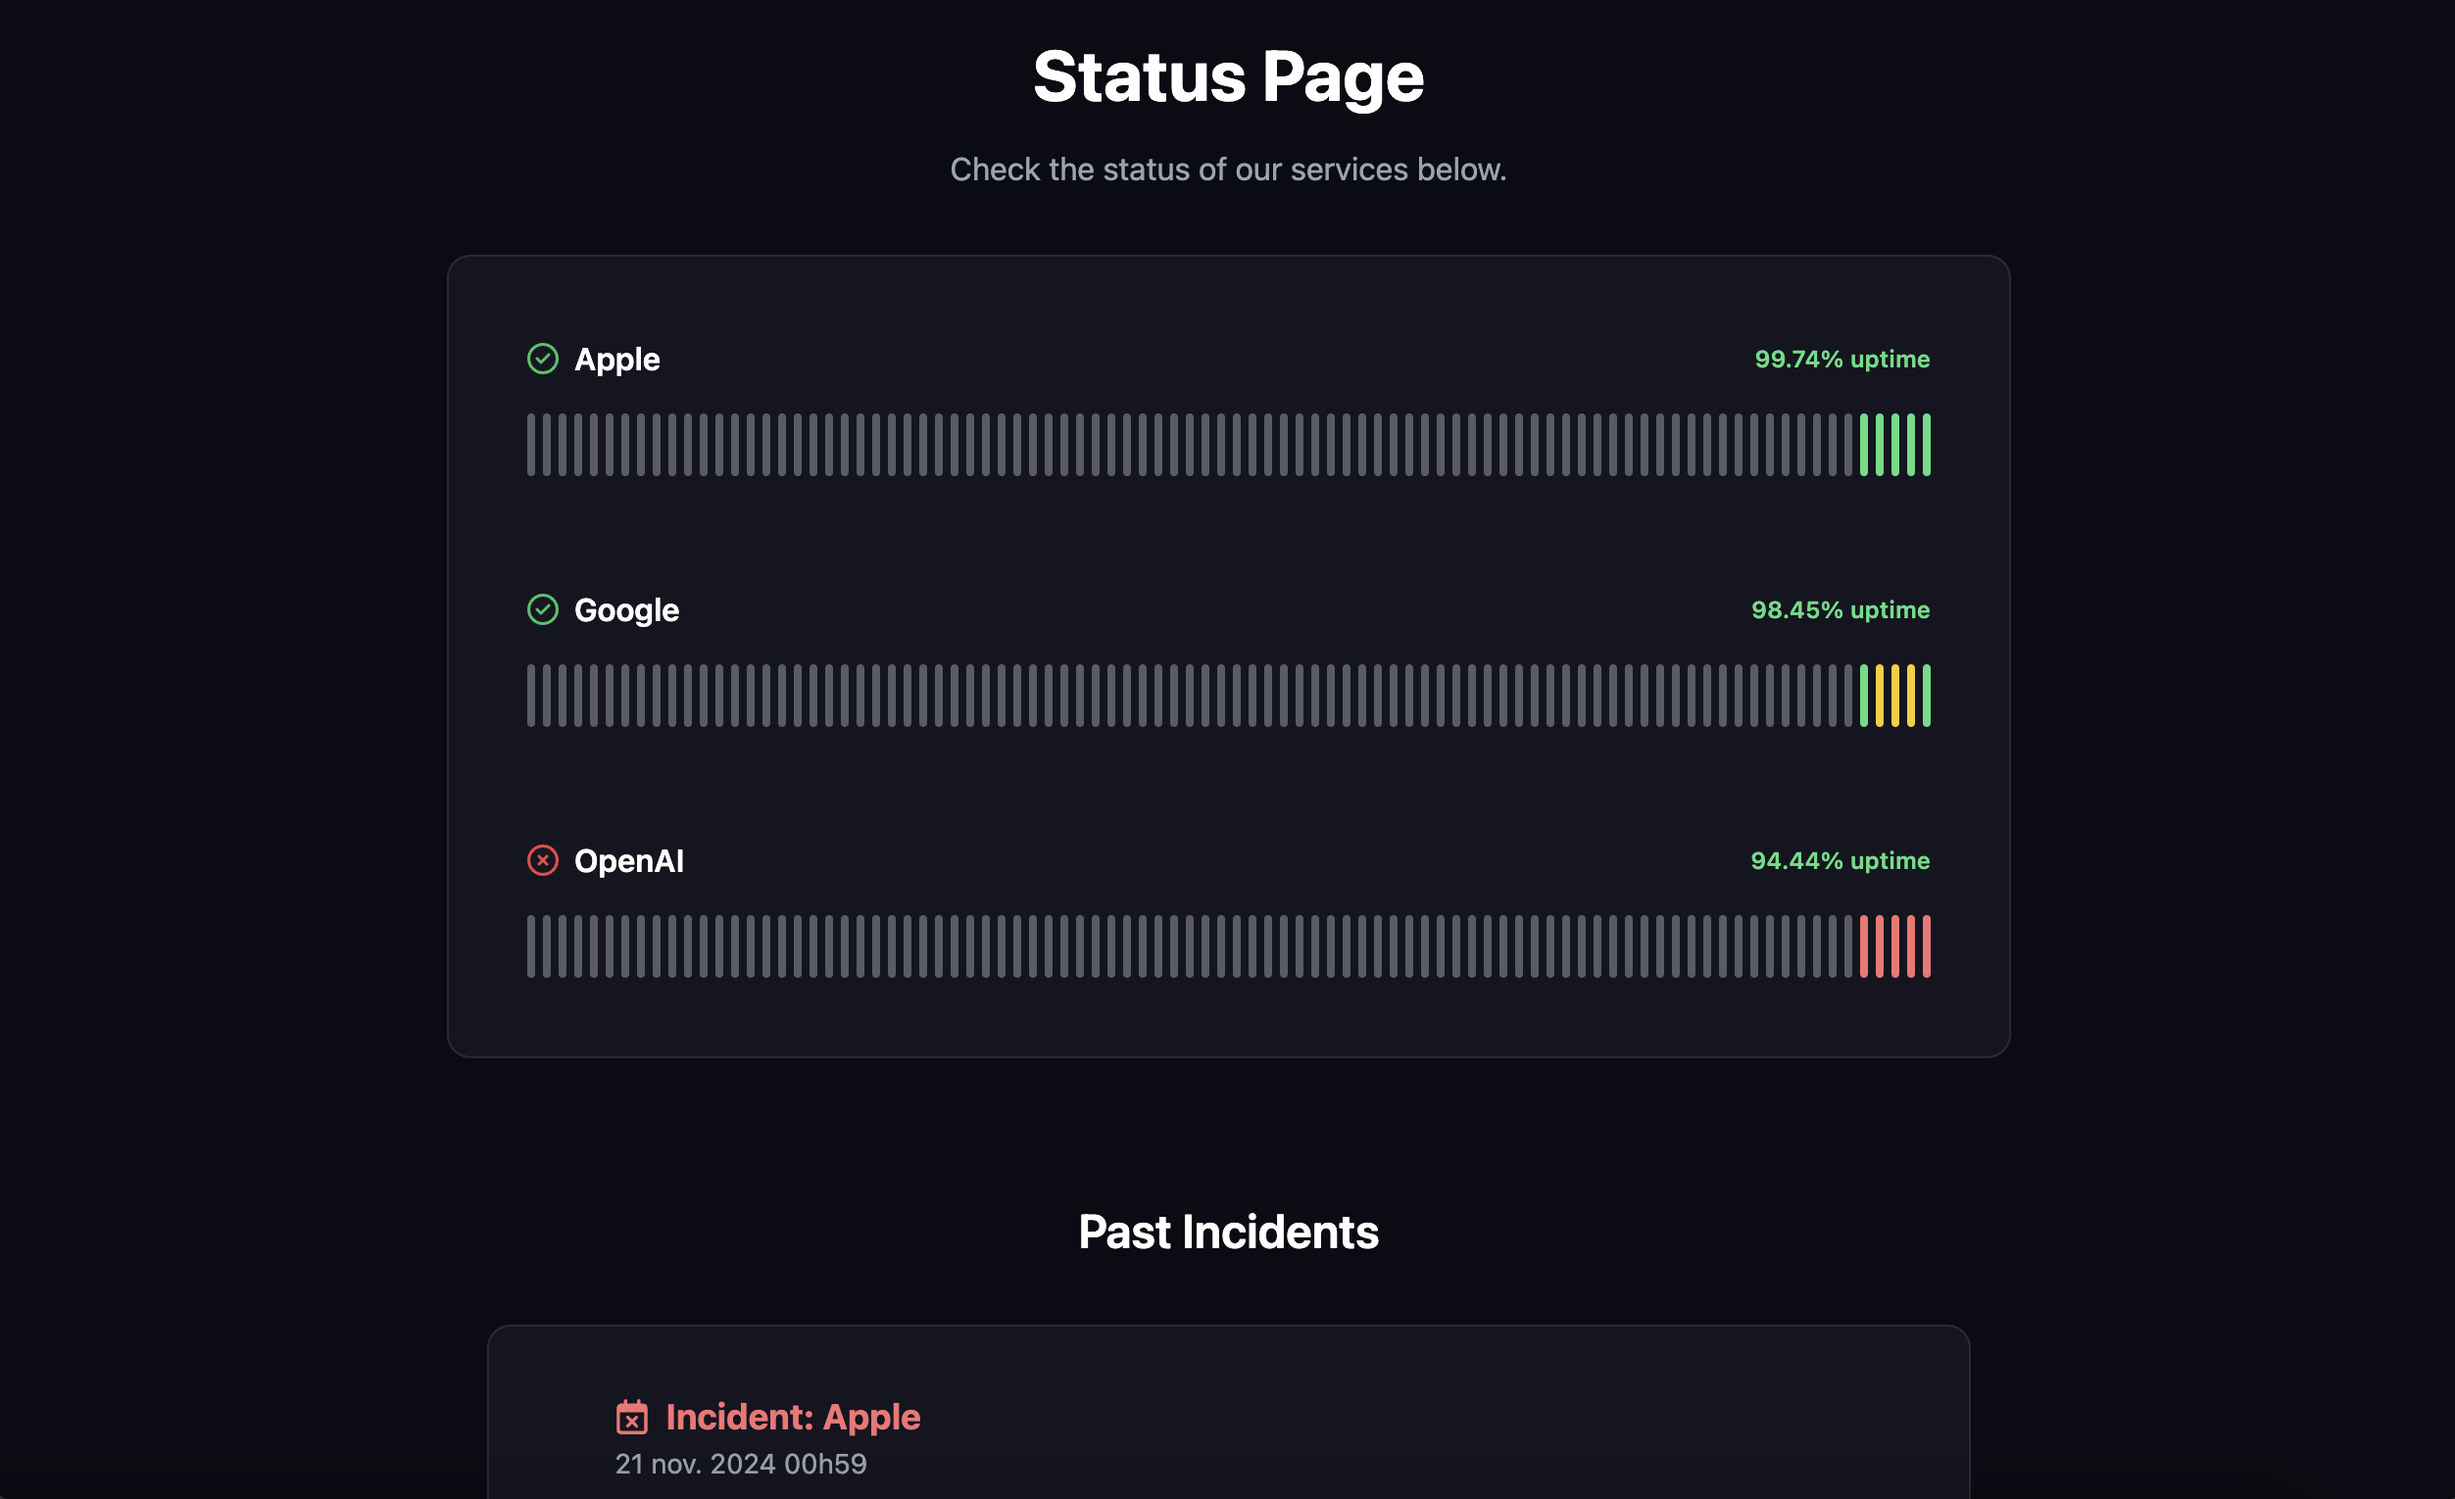
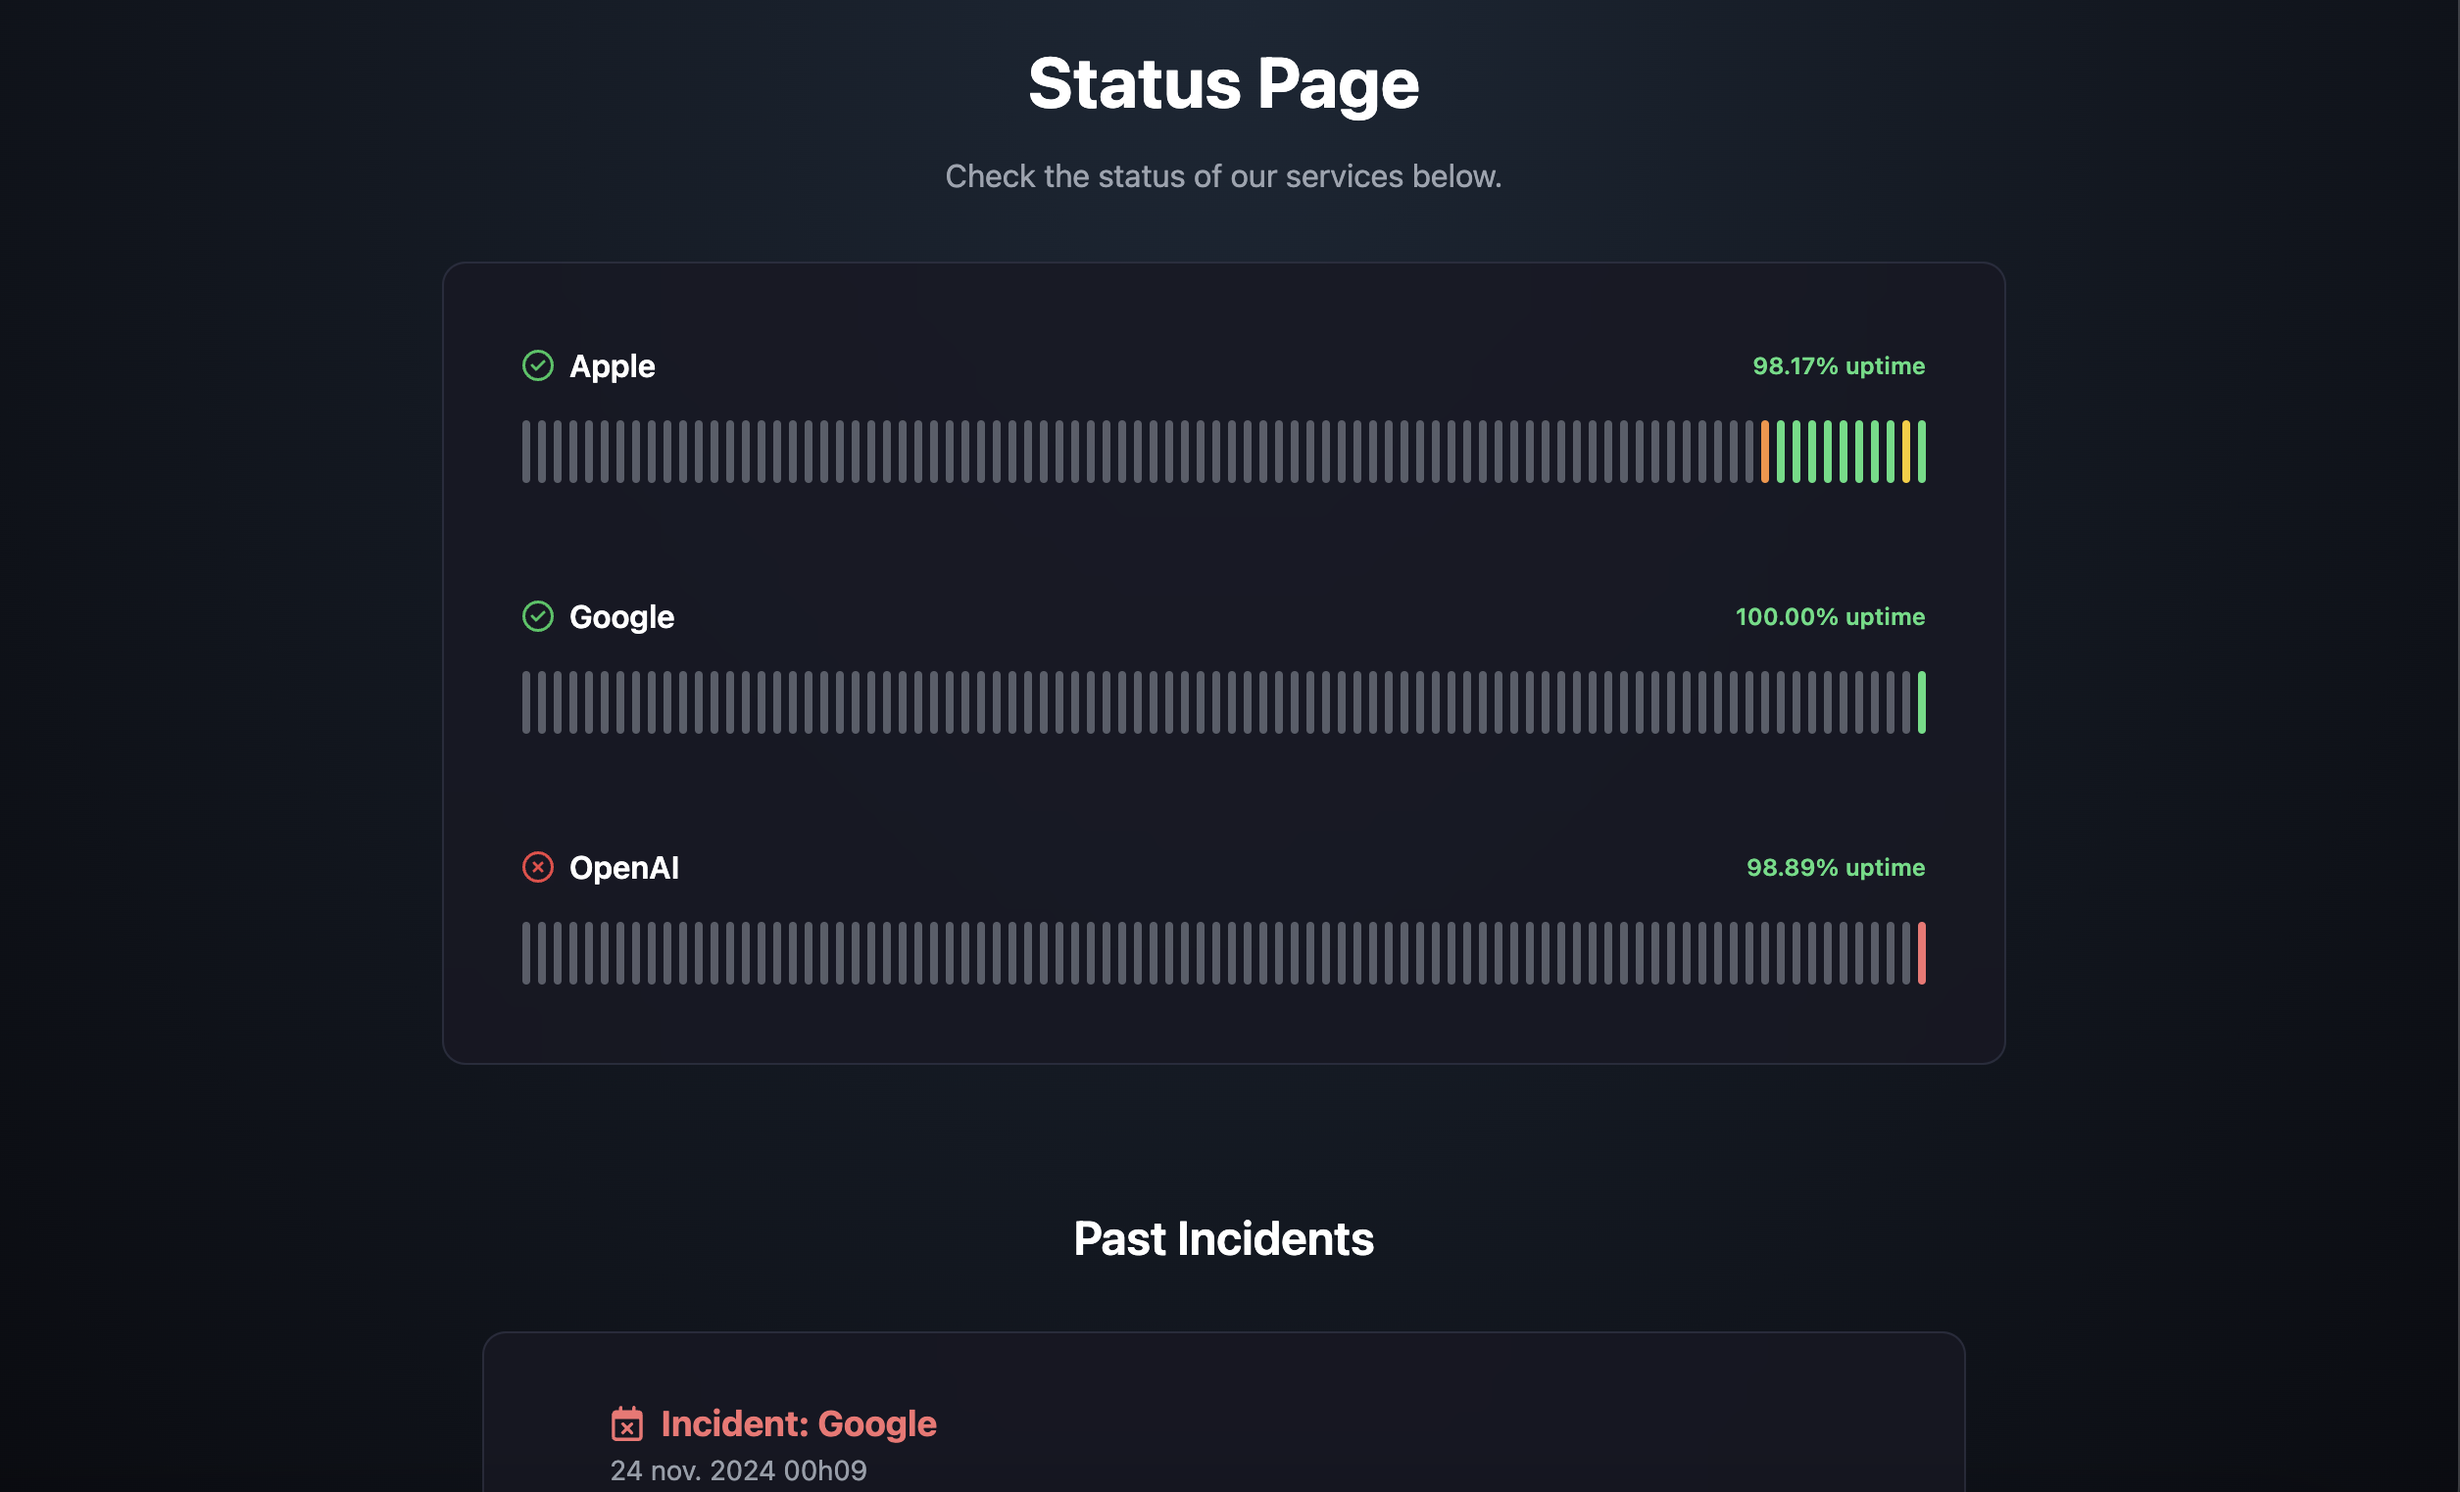
add more services infos

diff --git a/frontend/src/app/page.js b/frontend/src/app/page.js
@@ -3,20 +3,20 @@
 import { useEffect, useState } from "react";
 import axios from "axios";
 import {
+  FaRegCircleUp,
+  FaRegCircleDown,
   FaRegCircleCheck,
-  FaFaceFrown,
-  FaFaceLaughBeam,
-  FaFaceDizzy,
-  FaFaceSadCry,
-  FaHourglassHalf,
-  FaCircleUp,
-  FaCircleDown,
   FaRegCircleXmark,
   FaRegCircleQuestion,
-  FaRegCalendarXmark
+  FaRegCalendarXmark,
+  FaRegFaceFrown,
+  FaRegFaceLaughBeam,
+  FaRegFaceDizzy,
+  FaRegFaceSadTear,
+  FaHourglassHalf,
+  FaLink,
+  FaWifi
 } from "react-icons/fa6";
-
-import SnowEffect from "./components/SnowEffect";
 
 export default function Home() {
   const [statuses, setStatuses] = useState([]);
@@ -59,7 +59,6 @@ export default function Home() {
   useEffect(() => {
     const checkWinter = () => {
       const month = new Date().getMonth();
-      const minutes = new Date().getMinutes();
       setIsWinter(month === 0); // Dec
     };
     
@@ -122,7 +121,38 @@ export default function Home() {
                           <FaRegCircleXmark className="text-red-500" />
                         )}
                       </div>
-                      {status.name}
+                      <span className="relative items-center group flex justify-center cursor-pointer">
+                        <h2 className="text-center">
+                        {status.address ? (
+                          <a
+                            href={status.address}
+                            target="_blank"
+                            rel="noopener noreferrer"
+                            className="text-white no-underline hover:no-underline"
+                          >
+                            {status.name}
+                          </a>
+                        ) : (
+                          <span>{status.name}</span>
+                        )}
+                        </h2>
+                        {(status.address || status.responseTime) && (
+                          <div className="absolute left-1/2 mb-2 hidden max-w-max w-auto whitespace-nowrap px-4 py-2 text-xs font-medium text-white translate-x-1/4 group-hover:block rounded-xl backdrop-blur-2xl border border-[#727DA1]/20 bg-[#171824]/80">
+                            {status.address && (
+                              <p className="flex items-center space-x-2 text-gray-400">
+                                <FaLink />
+                                <span>{status.address}</span>
+                              </p>
+                            )}
+                            {status.responseTime && (
+                              <p className="flex items-center space-x-2 text-gray-400">
+                                <FaWifi />
+                                <span>{status.responseTime}ms</span>
+                              </p>
+                            )}
+                          </div>
+                        )}
+                      </span>
                     </h2>
 
                     <div
@@ -163,33 +193,33 @@ export default function Home() {
                               <div className="border-b border-gray-700 pb-2 mb-2 text-center font-bold">
                                 {day.uptime >= 75 ? (
                                   <p className="flex items-center space-x-2 text-green-400">
-                                    <FaFaceLaughBeam className="text-lg" />
+                                    <FaRegFaceLaughBeam className="text-lg" />
                                     <span>Operational</span>
                                   </p>
                                 ) : day.uptime >= 50 ? (
                                   <p className="flex items-center space-x-2 text-yellow-400">
-                                    <FaFaceFrown className="text-lg" />
+                                    <FaRegFaceFrown className="text-lg" />
                                     <span>Degraded</span>
                                   </p>
                                 ) : day.uptime >= 25 ? (
                                   <p className="flex items-center space-x-2 text-orange-400">
-                                    <FaFaceSadCry className="text-lg" />
+                                    <FaRegFaceSadTear className="text-lg" />
                                     <span>Partial Outage</span>
                                   </p>
                                 ) : (
                                   <p className="flex items-center space-x-2 text-red-400">
-                                    <FaFaceDizzy className="text-lg" />
+                                    <FaRegFaceDizzy className="text-lg" />
                                     <span>Major Outage</span>
                                   </p>
                                 )}
                               </div>
                               <p className="flex items-center space-x-2">
-                                <FaCircleUp />
+                                <FaRegCircleUp />
                                 <span>Uptime: {day.uptime.toFixed(2)}%</span>
                               </p>
                               <p className="flex items-center space-x-2">
-                                <FaCircleDown />
-                                <span>Downtime: {day.downtimeHours?.toFixed(1) || 0} h</span>
+                                <FaRegCircleDown />
+                                <span>Downtime: {day.downtimeHours?.toFixed(1) || 0}h</span>
                               </p>
                             </div>
                           ) : (

diff --git a/backend/server.js b/backend/server.js
@@ -219,22 +219,25 @@ function saveStatusData(stats) {
 
 async function pingService(service) {
   try {
+    const startTime = Date.now();
+
     if (service.address.startsWith("http")) {
       const expectedStatusCode = service.expectedStatusCode || 200;
       const response = await axios.get(service.address, { timeout: 5000 });
 
-      return response.status === expectedStatusCode;
+      const responseTime = Date.now() - startTime;
+      return { isOnline: response.status === expectedStatusCode, responseTime };
     } else {
       const res = await ping.promise.probe(service.address, {
         timeout: 5,
       });
-      return res.alive;
+
+      const responseTime = res.time ? parseInt(res.time) : null;
+      return { isOnline: res.alive, responseTime };
     }
   } catch (error) {
-    console.error(
-      `Error pinging ${service.address}: ${error.message}`
-    );
-    return false;
+    console.error(`Error pinging ${service.address}: ${error.message}`);
+    return { isOnline: false, responseTime: null };
   }
 }
 
@@ -250,7 +253,7 @@ async function updateStatuses() {
   const updatedStatuses = await Promise.all(
     statuses.map(async (service) => {
       if (now - service.lastPing >= service.pingInterval) {
-        const isOnline = await pingService(service);
+        const { isOnline, responseTime } = await pingService(service);
 
         if (!isOnline) {
           if (!service.downtimeStart) {
@@ -272,10 +275,10 @@ async function updateStatuses() {
             try {
               await createIncident(
                 service.name,
-                `The service "${service.name}" has been down since ${new Date(service.downtimeStart).getDate()} \
+                `The service "${service.name}" has been down since **${new Date(service.downtimeStart).getDate()} \
                 ${new Date(service.downtimeStart).toLocaleString('default', { month: 'short' })} \
                 ${new Date(service.downtimeStart).getFullYear()} \
-                ${new Date(service.downtimeStart).toLocaleString("en-GB", {hour: "2-digit", minute: "2-digit", hour12: false,}).replace(",", "").replace(":", "h")} \
+                ${new Date(service.downtimeStart).toLocaleString("en-GB", {hour: "2-digit", minute: "2-digit", hour12: false,}).replace(",", "").replace(":", "h")}** \
                 (Downtime: ${downtimeDuration} seconds).`
               );
             } catch (error) {
@@ -290,6 +293,7 @@ async function updateStatuses() {
 
         service.lastPing = now;
         service.lastStatus = isOnline;
+        service.responseTime = responseTime;
 
         service.currentDayPings.total += 1;
         if (isOnline) service.currentDayPings.online += 1;
@@ -435,7 +439,18 @@ app.get("/api/incidents", async (req, res) => {
 });
 
 app.get("/api/status", (req, res) => {
-  res.json({ title: config.configs.title, description: config.configs.description, statuses });
+  const filteredStatuses = statuses.map((service) => {
+    const { showIp, address, responseTime, ...rest } = service;
+    return showIp
+      ? { ...rest, address, responseTime }
+      : { ...rest, responseTime };
+  });
+
+  res.json({
+    title: config.configs.title,
+    description: config.configs.description,
+    statuses: filteredStatuses,
+  });
 });
 
 app.listen(PORT, () => {
